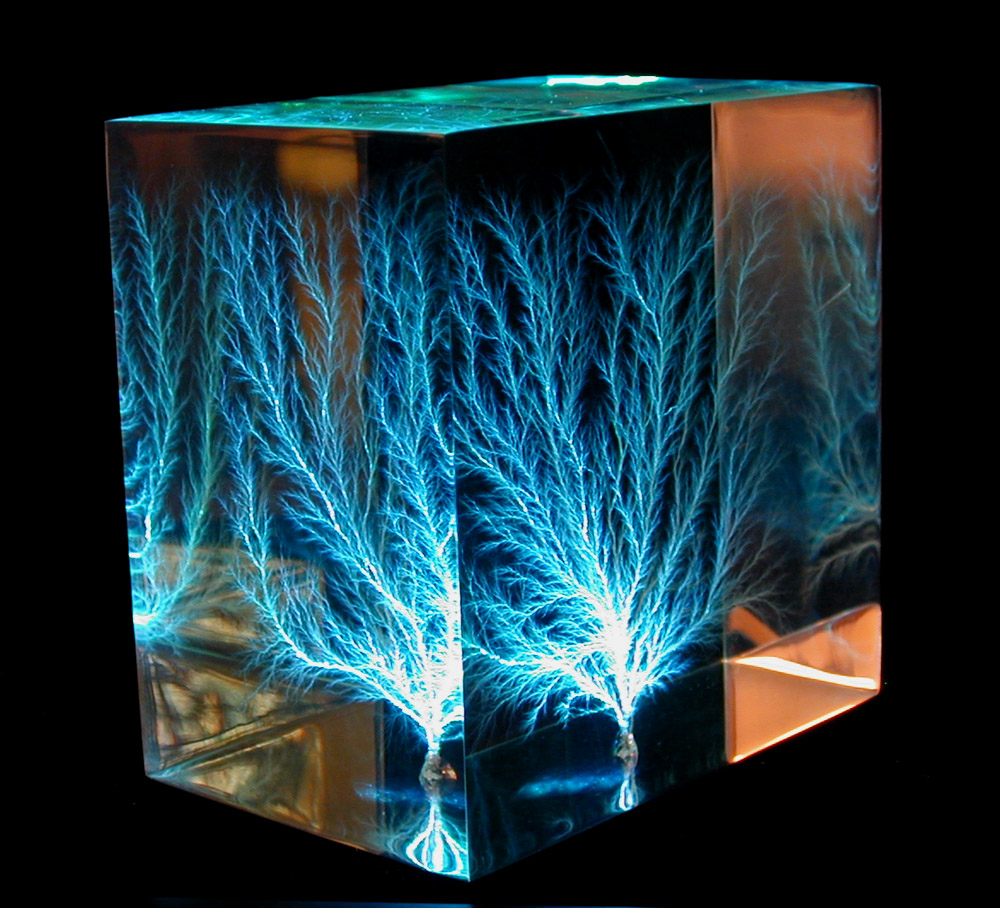
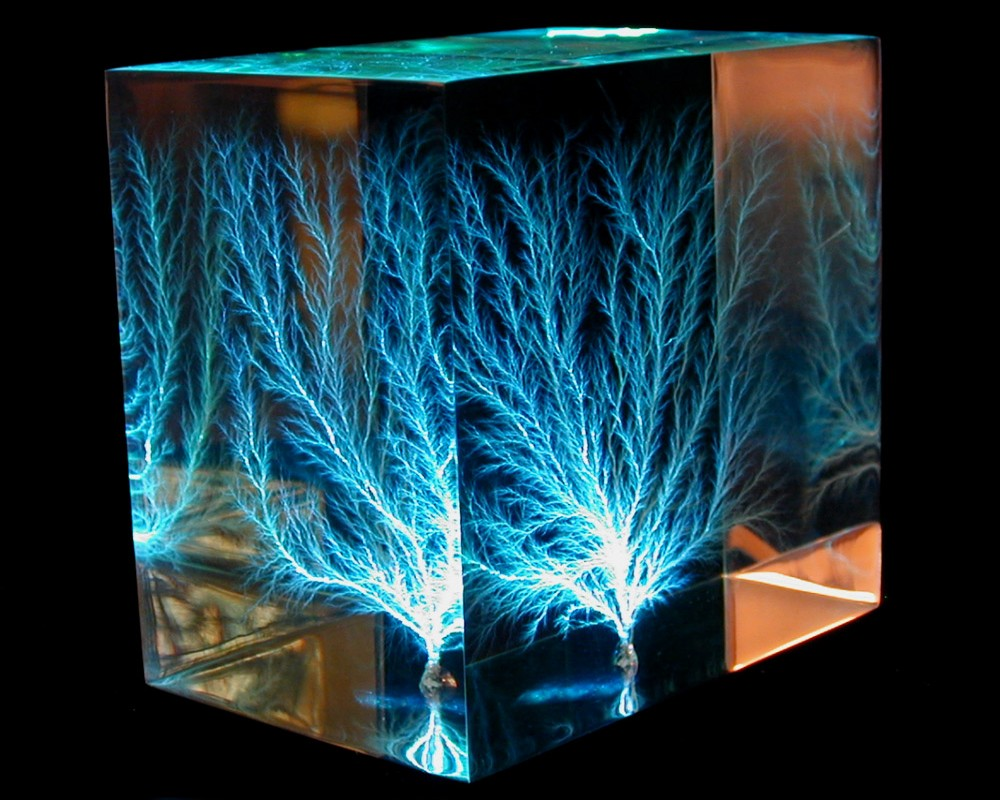
update images

diff --git a/index.html b/index.html
@@ -262,7 +262,7 @@
 
         <div class='step' data-x='-16500' data-y='11500' data-scale='2' data-rotate='-15'>
             <div class='mainSlide'>
-                <img src='15.jpg' style='width: 80%; height: 80%; padding: 0 10%;' />
+                <img src='15.jpg' />
                 <p>
                     If you still remember Lichtenberg figure, it can be a cool decoration in your room, too. The photo shows an acrylic block with a Lichtenberg figure in it. Although it is somewhat difficult to make Lichtenberg figure at home, it is offered by sellers on Amazon and Ebay. In addition to acrylic blocks, many interesting fractal items are available there. Fractals are no longer boring mathematical concepts, but something really cool!
                 </p>
